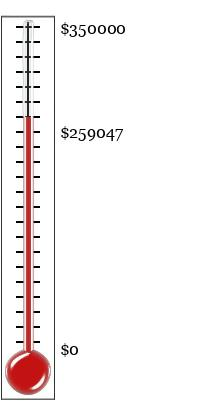
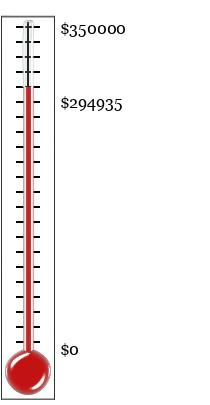
2023 Fundraising update: $294,935; NCSC Ireland becomes Gold supporter

Changed region(s): [[0.2857, 0.237, 0.6, 0.3556], [0.0857, 0.2074, 0.1714, 0.2963]]

diff --git a/contributors.html b/contributors.html
@@ -115,7 +115,8 @@ On request we will provide a link to your website for donations of
         <LI> Platinum: $50,000 to $100,000
         <LI> Gold: $25,000 to $50,000
             <UL>
-                Macrocosm, LLC
+                <LI>Macrocosm, LLC
+                <LI><A HREF=https://ncsc.gov.ie/>NCSC Ireland</A>
             </UL>
         <LI> Silver: $10,000 to $25,000
             <UL>
